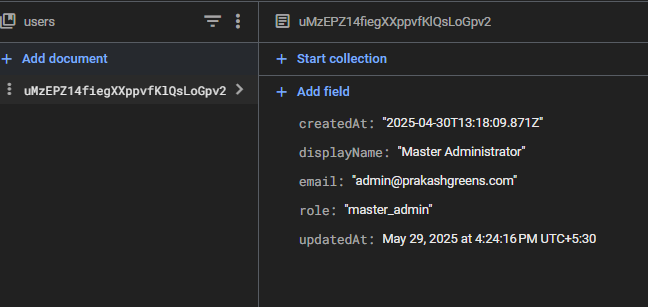
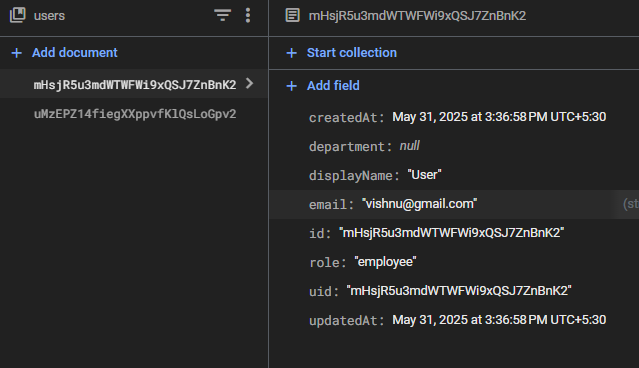
Ensure new users immediately appear on the user management page
Refactor UserService to always fetch user data directly from Firestore.

Replit-Commit-Author: Agent
Replit-Commit-Session-Id: 8ed120c7-892e-4b70-9234-668b63df11fa
Replit-Commit-Screenshot-Url: https://storage.googleapis.com/screenshot-production-us-central1/71d07e8d-5b1a-4385-b291-26f854e497c6/ae985198-2584-41b3-9ab6-1a466e1c2981.jpg

diff --git a/server/services/user-service.ts b/server/services/user-service.ts
@@ -169,23 +169,9 @@ export class UserService {
     try {
       console.log('[UserService] Getting all users');
       
-      // Try to get from cache first
-      const cachedUsers = cacheService.getAllUsers();
-      if (cachedUsers.length > 0) {
-        console.log(`[UserService] Retrieved ${cachedUsers.length} users from cache`);
-        return cachedUsers.map(user => ({
-          id: user.uid,
-          uid: user.uid,
-          email: user.email,
-          displayName: user.displayName || null,
-          role: user.role,
-          department: user.department,
-          createdAt: user.createdAt,
-          photoURL: user.photoURL || null
-        }));
-      }
-      
+      // Always fetch fresh data from Firestore to ensure we get new users
       const users = await storage.listUsers();
+      console.log(`[UserService] Retrieved ${users.length} users from Firestore`);
       
       // Validate and cache each user
       const validatedUsers = users.map(user => {
